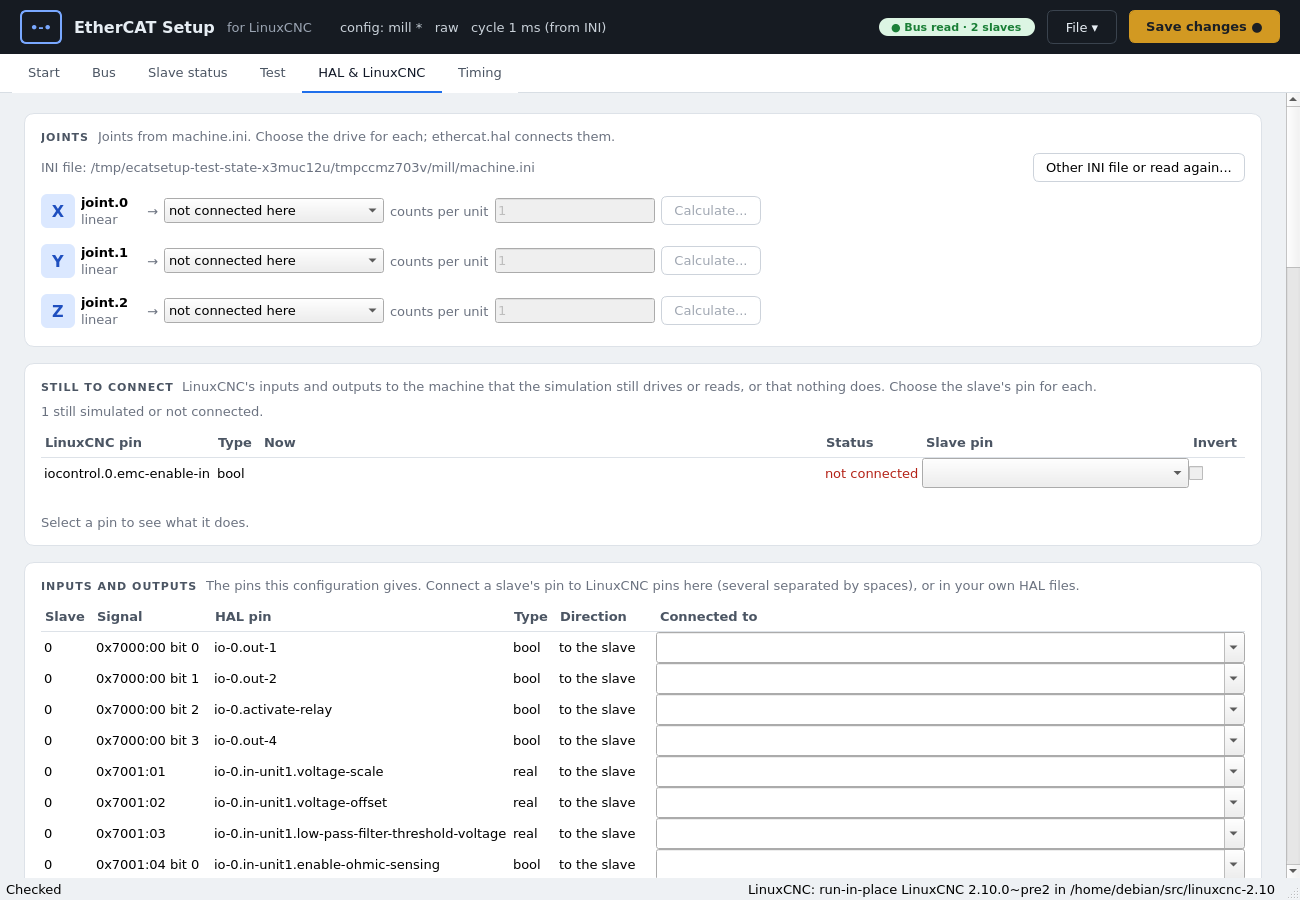
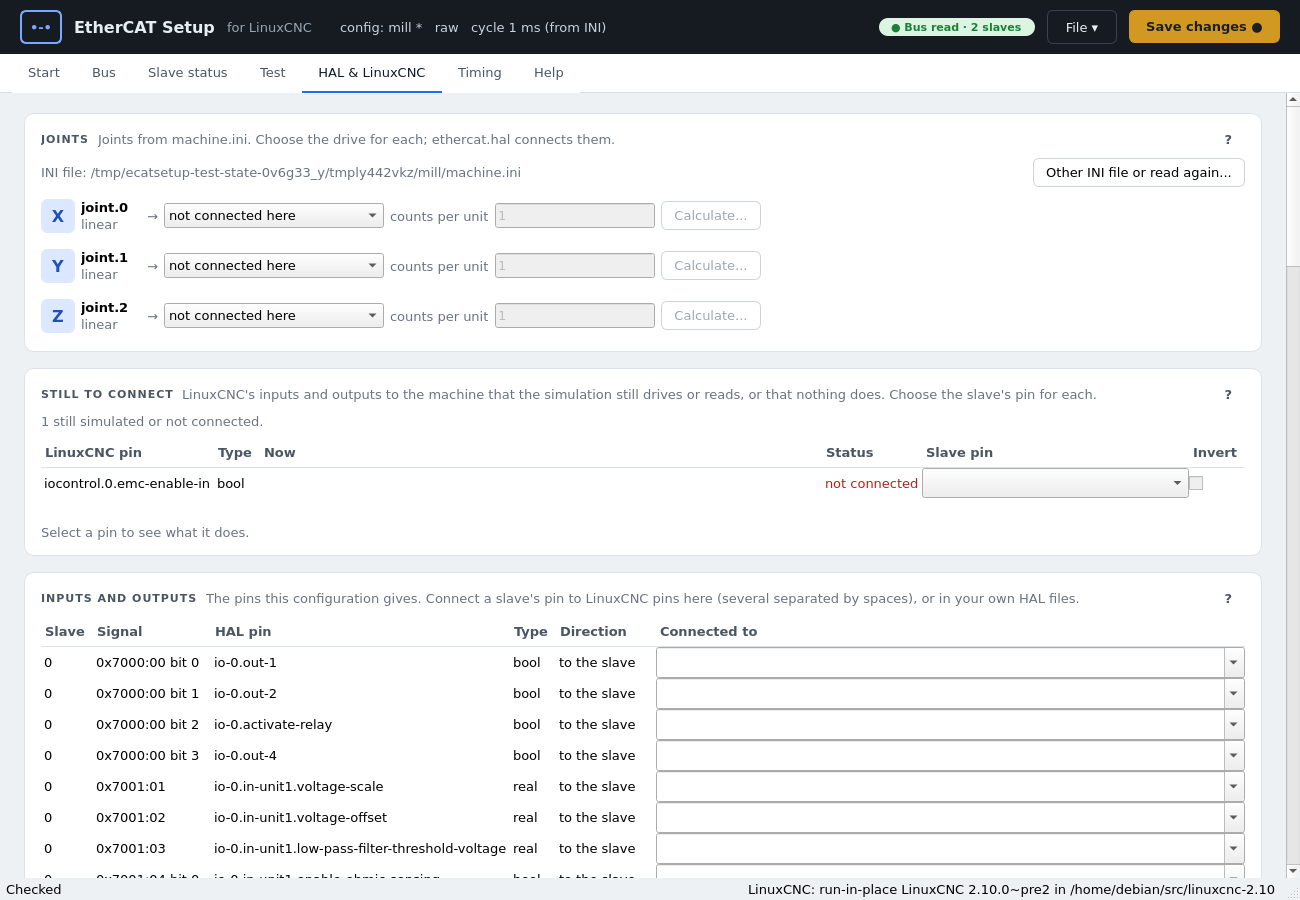
Screenshots retaken, with the Help tab (gui-help); help text with a margin

diff --git a/ecatsetup/helpview.py b/ecatsetup/helpview.py
@@ -65,6 +65,7 @@ class HelpView(QWidget):
         self.text = QTextBrowser()
         self.text.setOpenLinks(False)
         self.text.anchorClicked.connect(self.link_clicked)
+        self.text.document().setDocumentMargin(14)
         if self.docs.folder:
             self.text.setSearchPaths([self.docs.folder])
         self.split.addWidget(self.text)
@@ -153,6 +154,7 @@ class HelpView(QWidget):
             md += "\n\n" + "\n".join("- [%s](#%s)" % (self.docs.sections[c].title, self.docs.sections[c].anchor)
                                      for c in s.children)
         self.text.setMarkdown(md)
+        self.text.document().setDocumentMargin(14)
         self.fit_images()
         self.text.verticalScrollBar().setValue(0)
         self.mark_current()

diff --git a/docs/ecatsetup.md b/docs/ecatsetup.md
@@ -453,6 +453,8 @@ a time to make it better: see [The computer's timing](#the-computers-timing).
 The documents you are reading, in the window: this one, [Getting
 started](getting-started.md) and the [reference](reference.md).
 
+![The Help tab after F1 on a slave's page](images/gui-help.png)
+
 - **F1** opens the section for what you work with: on the slave page the
   kind of slave (a CiA 402 drive, an encoder channel, ...), elsewhere the
   page. A **?** at the top right of a card opens the section for that card.
